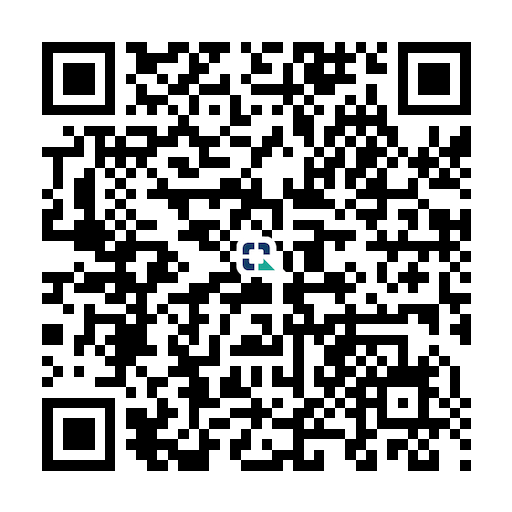
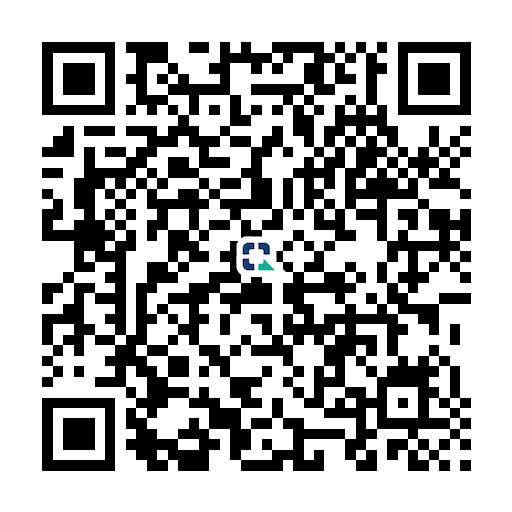
update readme

diff --git a/cmd/main.go b/cmd/main.go
@@ -38,7 +38,7 @@ func main() {
 	ppPayload, err := ppQR.GeneratePayload(thaiqr.PromptPayQRCmd{
 		ProxyID:   "0909764856",
 		ProxyType: thaiqr.ProxyTypeMsisdn,
-		Amount:    "1000000.00",
+		Amount:    "100.00",
 	})
 	if err != nil {
 		return

diff --git a/verifypayslipqr_test.go b/verifypayslipqr_test.go
@@ -1,6 +1,7 @@
 package thaiqr_test
 
 import (
+	"github.com/Jdemon/thaiqr"
 	"github.com/stretchr/testify/assert"
 	"testing"
 )
